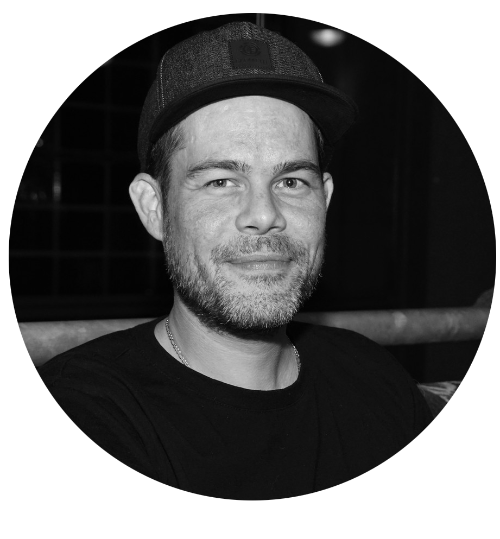
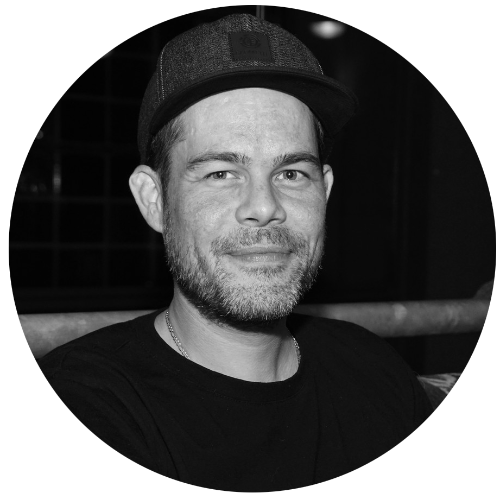
Minor fixes to the Dashboard page

diff --git a/index.html b/index.html
@@ -312,7 +312,7 @@
                 <h6 class="widget-user-desc text-right">Chief Technology Officer</h6>
               </div>
               <div class="widget-user-image">
-                <img class="img-circle hovergrow" src="/img/profile_ralph.png" alt="User Avatar">
+                <img class="img-circle hovergrow" src="/img/profile_ralph.png" alt="User Avatar" style='width: 115px; height: 115px; margin-left: -15px;'>
               </div>
               <div class="card-footer">
                 <br>
@@ -818,7 +818,7 @@
               </div>
 
                 <div class='text-muted text-sm' style='margin:10px;'>
-                  I'm going to add a <b>Detail Page</b> for each Project, but they are currently missing. There's just a lot 😆 Thanks for your visit and hope you enjoy the site!<br><div style='color:orange;'>Ralph</div>
+                  I'm going to add a <b>Detail Page</b> for each Project, but some are currently missing. There's just a lot 😆 Thanks for your visit and hope you enjoy the site!<br><div style='color:orange;'>Ralph</div>
                 </div>
             </div>
             <br><br><br><br>
